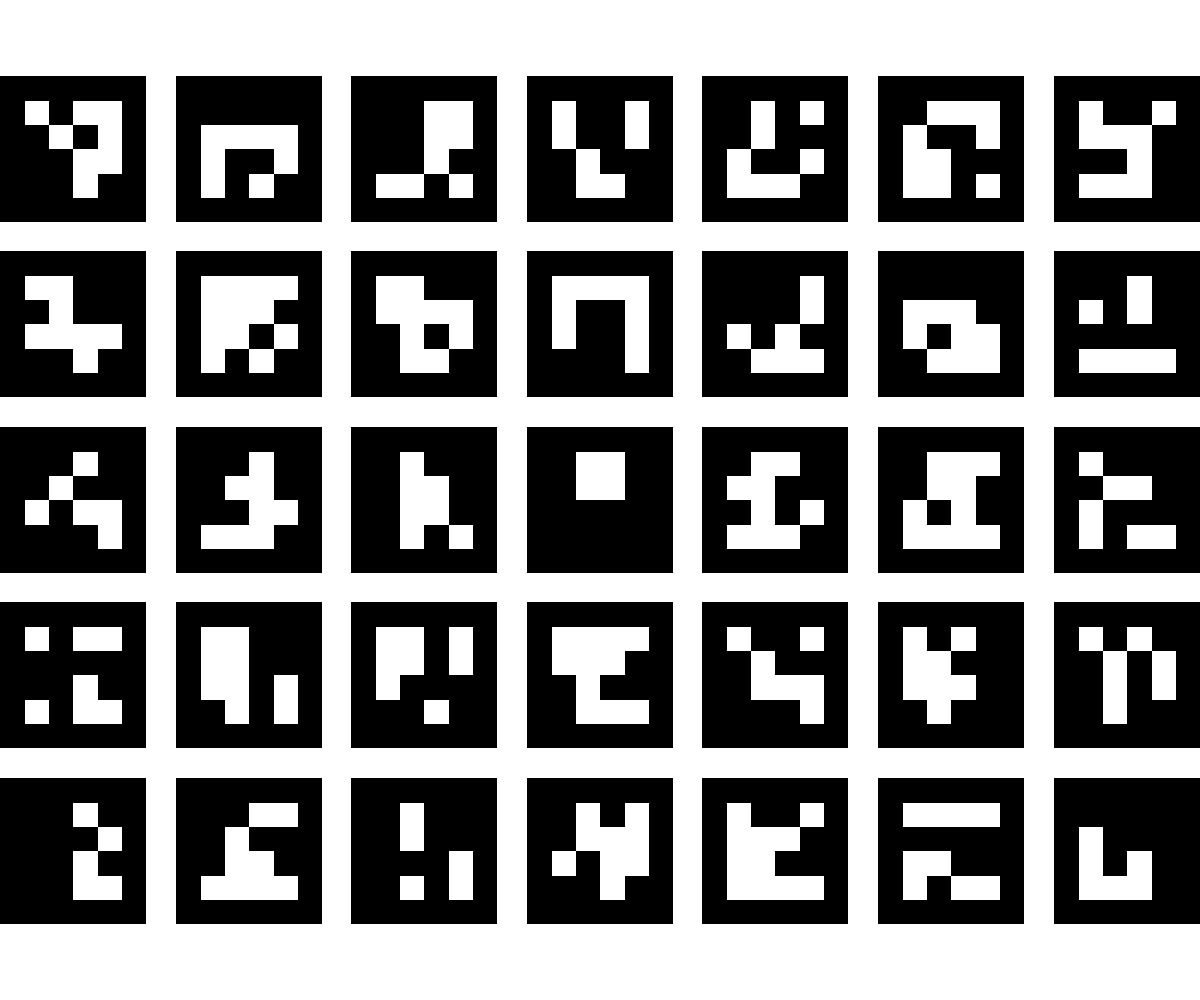
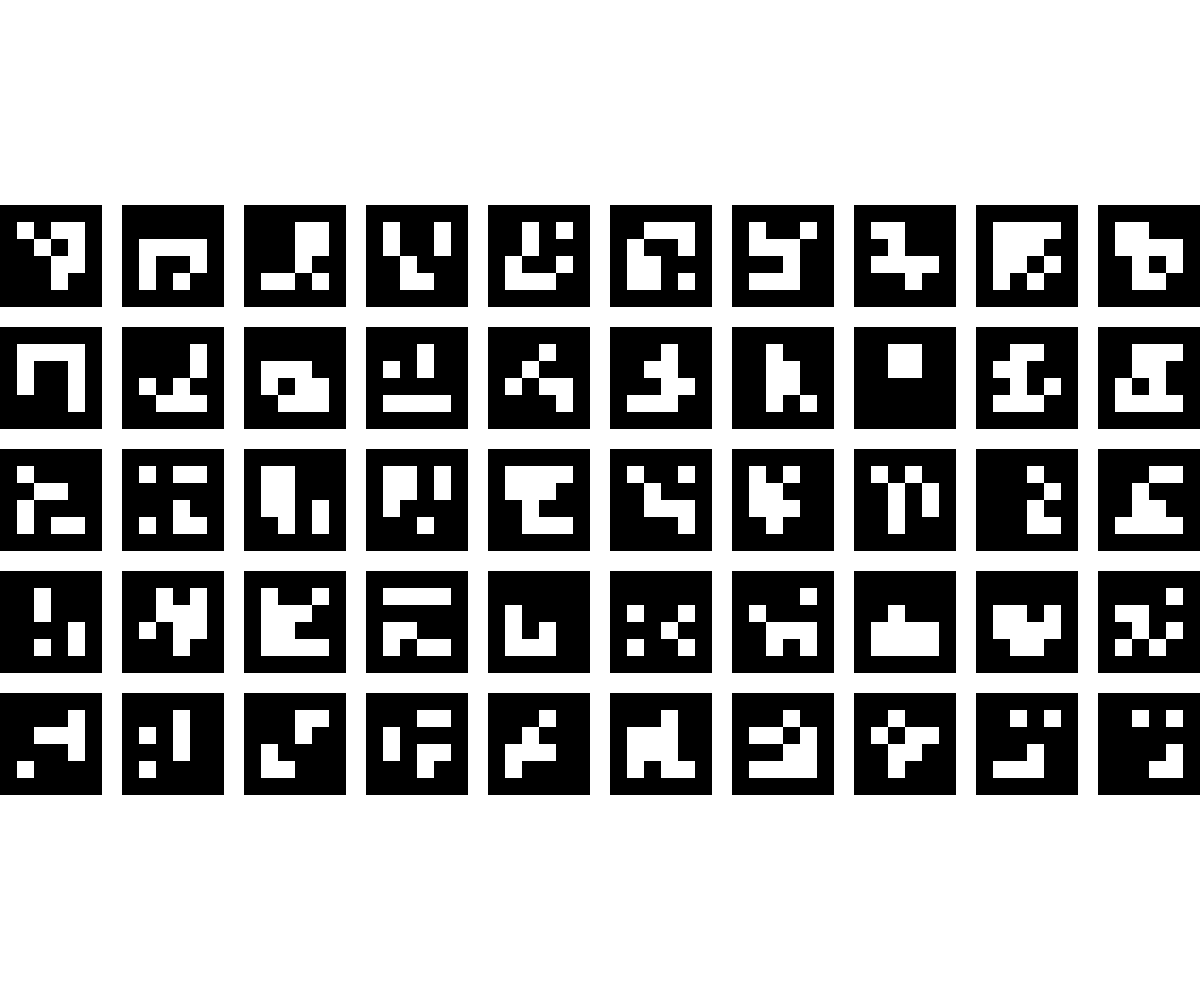
update board

diff --git a/vision/consts.py b/vision/consts.py
@@ -1,6 +1,6 @@
 import cv2.aruco as aruco
 
-ROWS = 7
+ROWS = 10
 COLS = 5
 markerLength = 40
 markerSeparation = 8
